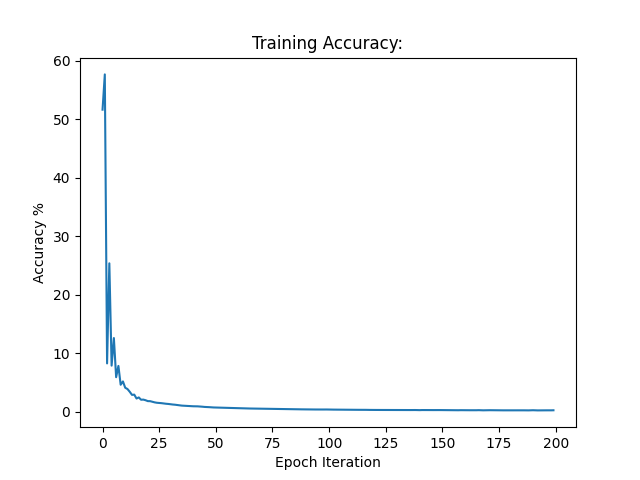
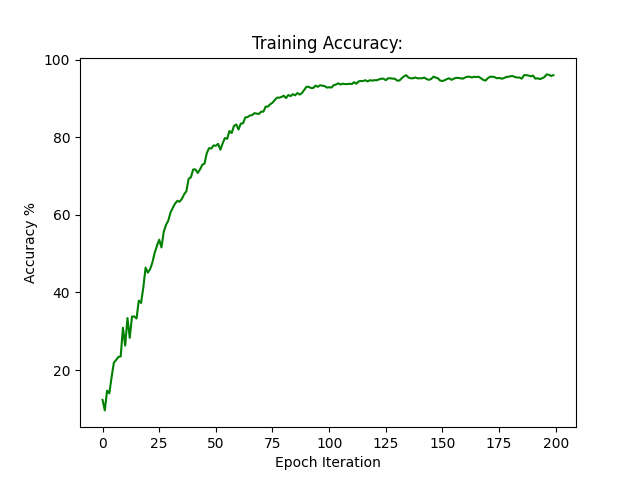
10/03/2020-Atkins-20:00:11 Updated training and testing files to include more detailed logging and more organized code.

diff --git a/project/conv/conv_test.py b/project/conv/conv_test.py
@@ -14,42 +14,41 @@ def conv_test(x_test, y_test, checkpoint_file):
     input_depth = 1
     # Conv Layer 1:
     # Input: None x 28 x 28 x 1
-    layer_1_depth = 3
-    k1_width = 3
+    layer_1_depth = 6
+    k1_width = 5
     stride_1 = 1
     padding_1 = "SAME"
     # Conv Layer 2:
-    # Input: None x 28 x 28 x 3
-    layer_2_depth = 6
-    k2_width = 5
-    stride_2 = 2
+    # Input: None x 28 x 28 x 6
+    layer_2_depth = 18
+    k2_width = 7
+    stride_2 = 1
     padding_2 = "SAME"
-    # Output: None x 14 x 14 x 6
+    # Output: None x 28 x 28 x 18
     # Pooling Layer 2:
-    # Output: None x 7 x 7 x 6
-    conv_output_nodes = 14 * 14 * 6
-
+    # Output: None x 14 x 14 x 18
+    conv_output_nodes = 7 * 7 * 18
 
     # Fully Connected:
     increase_factor = 1.5
-    hidden_layer_3 = 32
+    hidden_layer_3 = round(conv_output_nodes * increase_factor)
     hidden_layer_4 = round(hidden_layer_3 * increase_factor)
     output_layer = 10
 
     # Defining Layers:
-    # Defining Placehodlers:
+    # Defining Placeholders:
     x = tf.placeholder(tf.float32, [None, image_dim, image_dim, input_depth])
     y_ = tf.placeholder(tf.float32, [None, categories])
 
     # [filter_height, filter_width, in_channels, out_channels]
     # Conv-Pool:
     k1 = tf.Variable(tf.random_normal([k1_width, k1_width, input_depth, layer_1_depth]))
-    y1 = tf.nn.relu(tf.nn.conv2d(x, k1, [stride_1], padding_1))
-    y1 = tf.nn.pool(y1, [2, 2], pooling_type="MAX", padding="SAME")
+    y1 = tf.nn.leaky_relu(tf.nn.conv2d(x, k1, [stride_1], padding_1))
+    y1 = tf.nn.pool(y1, [2, 2], pooling_type="MAX", padding="SAME", strides=[2, 2])
     # Conv-Pool:
     k2 = tf.Variable(tf.random_normal([k2_width, k2_width, layer_1_depth, layer_2_depth]))
-    y2 = tf.nn.relu(tf.nn.conv2d(y1, k2, [stride_2], padding_2))
-    y2 = tf.nn.pool(y2, [2, 2], pooling_type="MAX", padding="SAME")
+    y2 = tf.nn.leaky_relu(tf.nn.conv2d(y1, k2, [stride_2], padding_2))
+    y2 = tf.nn.pool(y2, [2, 2], pooling_type="MAX", padding="SAME", strides=[2, 2])
     y2 = tf.reshape(y2, [-1, conv_output_nodes])
 
     # Layer 3 variables:
@@ -59,19 +58,18 @@ def conv_test(x_test, y_test, checkpoint_file):
     # Layer 4 variables:
     W4 = tf.Variable(tf.truncated_normal([hidden_layer_3, hidden_layer_4], stddev=0.15))
     b4 = tf.Variable(tf.zeros([hidden_layer_4]))
-    y4 = tf.matmul(y3, W4) + b4
+    y4 = tf.math.sigmoid(tf.matmul(y3, W4) + b4)
     # Layer 5 Variables:
     W5 = tf.Variable(tf.truncated_normal([hidden_layer_4, output_layer], stddev=0.15))
     b5 = tf.Variable(tf.zeros([output_layer]))
     y = tf.matmul(y4, W5) + b5
-
 
     # For weight saving:
     saver = tf.train.Saver()
     checkpoint = conv_checkpoint_dir + checkpoint_file
 
     with tf.Session() as sess:
-        sess.run(tf.global_variables_initializer())
+        saver.restore(sess, checkpoint)
 
         test_output = sess.run(y, feed_dict={x: x_test, y_: y_test})
         predictions = np.argmax(test_output, axis=1)

diff --git a/project/conv/conv_train.py b/project/conv/conv_train.py
@@ -36,7 +36,7 @@ def conv_train(x_train, y_train, learning_rate, num_epochs, batch_size, checkpoi
     output_layer = 10
 
     # Defining Layers:
-    # Defining Placehodlers:
+    # Defining Placeholders:
     x = tf.placeholder(tf.float32, [None, image_dim, image_dim, input_depth])
     y_ = tf.placeholder(tf.float32, [None, categories])
 
@@ -99,6 +99,7 @@ def conv_train(x_train, y_train, learning_rate, num_epochs, batch_size, checkpoi
                 checkpoint = conv_checkpoint_dir + f"conv_epoch_{epoch_iteration}.ckpt"
                 saver.save(sess, checkpoint)
         sess.close()
+
     # Loss Plotting:
     plt.title("Training Loss:")
     plt.ylabel("Loss")
@@ -110,7 +111,7 @@ def conv_train(x_train, y_train, learning_rate, num_epochs, batch_size, checkpoi
     plt.title("Training Accuracy:")
     plt.ylabel("Accuracy %")
     plt.xlabel("Epoch Iteration")
-    plt.plot(training_accuracies)
+    plt.plot(training_accuracies, "g")
     plt.savefig(results_folder + "training_accuracy.png")
     plt.show()
     return

diff --git a/project/main.py b/project/main.py
@@ -26,12 +26,12 @@ def conv(_train, x_train, y_train, x_test, y_test):
 
     # Training Parameters:
     learning_rate = 0.001
-    num_epochs = 200
-    num_models = 10
+    num_epochs = 50
+    num_models = 100
     batch_size = 256
     checkpoint_frequency = 2
     # Testing Parameters:
-    checkpoint_file = "conv_epoch_90.ckpt"
+    checkpoint_file = "conv_epoch_180.ckpt"
     if _train:
         conv_train(x_train, y_train, learning_rate, num_epochs, batch_size, checkpoint_frequency=checkpoint_frequency,
                     num_models=num_models)
@@ -42,6 +42,5 @@ def conv(_train, x_train, y_train, x_test, y_test):
 if __name__ == "__main__":
     _train = 1
     (x_train, y_train), (x_test, y_test) = load_MNIST()
-    (x_train, y_train), (x_test, y_test) = (x_train[:1000], y_train[:1000]), (x_test, y_test)
     conv(_train, x_train, y_train, x_test, y_test)
 
